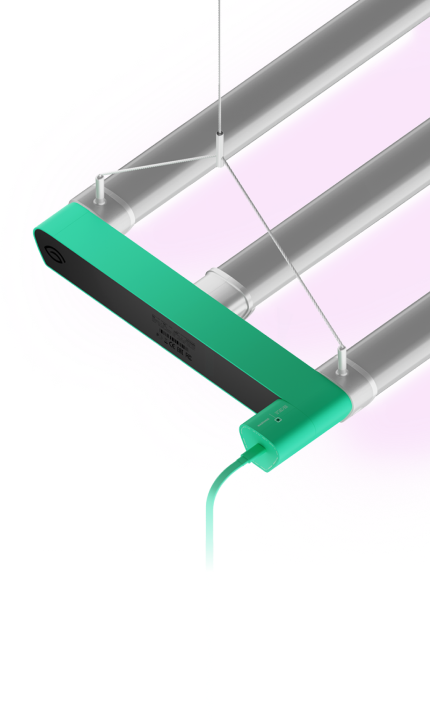
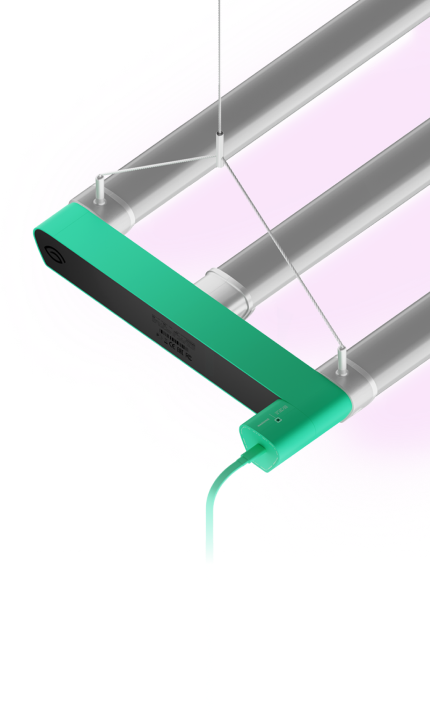
rebuild mounting ignis slider

diff --git a/src/html/pages/ignis.html b/src/html/pages/ignis.html
@@ -981,39 +981,51 @@
                 </li>
             </ul>
         </div>
-        <div
-            id="ignis-mounting-slider"
-            class="preview-mounting__slider swapper">
-            <div class="swiper-wrapper">
-                <div class="swiper-slide slide-item">
-                    <div class="img-wrapper">
-                        <picture>
-                            <source
-                                srcset="
-                                    images/common/ignis/mounting_slide_1_mobile.jpg
-                                "
-                                media="(max-width: 575px)" />
-                            <img
-                                src="images/common/ignis/mounting_slide_1.jpg"
-                                alt="ignis"
-                                class="slide-image" />
-                        </picture>
+        <div class="preview-mounting__wrapper">
+            <div class="preview-mounting__left">
+                <div class="img-wrapper">
+                    <picture>
+                        <img
+                            src="images/common/ignis/mounting/mounting-left.png"
+                            alt="ignis"
+                            class="img-part img-part_left" />
+                    </picture>
+                </div>
+            </div>
+            <div
+                id="ignis-mounting-slider"
+                class="preview-mounting__slider swapper">
+                <div class="swiper-wrapper">
+                    <div class="swiper-slide slide-item">
+                        <div class="img-wrapper">
+                            <picture>
+                                <img
+                                    src="images/common/ignis/mounting/mounting-slide-1.png"
+                                    alt="ignis"
+                                    class="slide-image" />
+                            </picture>
+                        </div>
+                    </div>
+                    <div class="swiper-slide slide-item">
+                        <div class="img-wrapper">
+                            <picture>
+                                <img
+                                    src="images/common/ignis/mounting/mounting-slide-2.png"
+                                    alt="ignis"
+                                    class="slide-image" />
+                            </picture>
+                        </div>
                     </div>
                 </div>
-                <div class="swiper-slide slide-item">
-                    <div class="img-wrapper">
-                        <picture>
-                            <source
-                                srcset="
-                                    images/common/ignis/mounting_slide_2_mobile.jpg
-                                "
-                                media="(max-width: 575px)" />
-                            <img
-                                src="images/common/ignis/mounting_slide_2.jpg"
-                                alt="ignis"
-                                class="slide-image" />
-                        </picture>
-                    </div>
+            </div>
+            <div class="preview-mounting__right">
+                <div class="img-wrapper">
+                    <picture>
+                        <img
+                            src="images/common/ignis/mounting/mounting-right.png"
+                            alt="ignis"
+                            class="img-part img-part_right" />
+                    </picture>
                 </div>
             </div>
         </div>

diff --git a/src/js/common.js b/src/js/common.js
@@ -1,5 +1,11 @@
 // slider
-import Swiper, { Navigation, Pagination, EffectFade, Autoplay } from 'swiper'
+import Swiper, {
+    Navigation,
+    Pagination,
+    EffectFade,
+    Autoplay,
+    EffectCreative,
+} from 'swiper'
 // functions
 import { headerScrollChange } from './_func/_jq/headerScrollChange'
 import { getAppHeight } from './_func/_jq/getAppHeight'
@@ -173,8 +179,19 @@ document.addEventListener('DOMContentLoaded', () => {
             },
             allowTouchMove: false,
             speed: 800,
+
             slidesPerView: 1,
-            spaceBetween: 20,
+            spaceBetween: 0,
+
+            breakpoints: {
+                // when window width is >= 320px
+                320: {
+                    autoHeight: true,
+                },
+                1580: {
+                    autoHeight: false,
+                },
+            },
         })
 
         $('.preview-spectra__content .nav-link').click(function () {
@@ -185,13 +202,21 @@ document.addEventListener('DOMContentLoaded', () => {
         })
 
         var ignismountingSlider = new Swiper('#ignis-mounting-slider', {
-            modules: [EffectFade, Autoplay],
+            modules: [EffectCreative, Autoplay],
             lazy: true,
-            effect: 'fade',
+            effect: 'creative',
             allowTouchMove: false,
-            speed: 800,
+            speed: 300,
             slidesPerView: 1,
             spaceBetween: 0,
+            creativeEffect: {
+                prev: {
+                    rotate: [180, 0, 0],
+                },
+                next: {
+                    rotate: [-180, 0, 0],
+                },
+            },
             autoplay: {
                 delay: 6000,
                 disableOnInteraction: false,
@@ -200,6 +225,9 @@ document.addEventListener('DOMContentLoaded', () => {
                 init: function () {
                     this.slideTo(1)
                     this.autoplay.stop()
+                    $('.preview-mounting__wrapper').removeClass(
+                        'preview-mounting__wrapper_hang'
+                    )
                 },
             },
         })
@@ -209,6 +237,9 @@ document.addEventListener('DOMContentLoaded', () => {
             const index = ignismountingSlider.activeIndex
             const arr = [...$('.preview-mounting__content .nav-link')]
             arr[index].classList.add('active')
+            $('.preview-mounting__wrapper').toggleClass(
+                'preview-mounting__wrapper_hang'
+            )
         })
 
         if ($('.preview-mounting').length > 0) {
@@ -220,6 +251,9 @@ document.addEventListener('DOMContentLoaded', () => {
 
                 if (wt <= et + eh && wt >= et) {
                     ignismountingSlider.slideTo(0)
+                    $('.preview-mounting__wrapper').addClass(
+                        'preview-mounting__wrapper_hang'
+                    )
                     ignismountingSlider.autoplay.start()
                 } else {
                     ignismountingSlider.autoplay.stop()
@@ -689,6 +723,7 @@ document.addEventListener('DOMContentLoaded', () => {
 
     var previewHowSlider = new Swiper('#preview-how-slider', {
         modules: [Navigation, Pagination, EffectFade],
+        loop: true,
         lazy: true,
         effect: 'fade',
         speed: 800,

diff --git a/src/css/styles.sass b/src/css/styles.sass
@@ -241,8 +241,7 @@
           align-items: flex-end
           justify-content: center
           flex-direction: row
-          @media (max-width: 575px)
-            width: 100%
+          width: 100%
 .terra-main
   background-color: $gray-color
   .container
@@ -1506,9 +1505,11 @@
       display: flex
       gap: 20px
       @media (max-width: 1580px)
-        flex-direction: column
+        justify-content: center
         flex-wrap: wrap
         align-items: center
+        flex-direction: row
+        height: auto
   &__left,
   &__right
     position: relative
@@ -1653,11 +1654,87 @@
           &.active
             background-color: #fff
             border-radius: 20px
-    .slide-image
-      width: 100%
-      height: 100%
-      object-fit: cover
     
+  &__wrapper
+    width: 100%
+    height: 560px
+
+    display: flex
+    justify-content: center
+    gap: 200px
+    overflow: hidden
+
+    @media (max-width: 1024px)
+      gap: 100px
+      height: 470px
+
+    @media (max-width: 830px)
+      height: 370px
+      gap: 50px
+    
+    @media (max-width: 530px)
+      height: 240px
+
+    @media (max-width: 375px)
+      gap: 30px
+
+    &_hang
+      .preview-mounting
+        &__left,
+        &__right
+          top: 20%
+
+  &__left,
+  &__right
+    position: relative
+    top: 0
+    height: 100%
+    display: flex
+    justify-content: flex-end
+    margin-left: auto
+    min-width: 655px
+
+    transition: top ease 0.3s 
+
+    .img-wrapper
+      height: 100%
+
+    .img-part
+      height: 30%
+      object-fit: cover
+
+      &_left 
+        height: 100%
+
+      &_right
+        position: relative
+        top: 50%
+        transform: translateY(-50%)
+
+  &__right
+    @media (max-width: 1024px)
+      justify-content: flex-start
+
+
+  &__slider
+    width: 115px
+    height: 100%
+    flex-shrink: 0
+
+    @media (max-width: 1024px)
+      width: 97px
+    @media (max-width: 830px)
+      width: 76px
+    @media (max-width: 530px)
+      width: 50px
+
+    .img-wrapper
+      height: 100%
+      .slide-image
+        height: 100%
+        object-fit: cover
+      
+
 .preview-future
   background-color: $bg-color
   padding-top: 80px

diff --git a/src/css/_components/_header.sass b/src/css/_components/_header.sass
@@ -180,7 +180,6 @@
               flex: 0 0 auto
               opacity: 0
               transform: scale(.5)
-              transition: opacity .3s, transform .3s, color .5s
               font-size: 30px
               line-height: 30px
               margin-right: 5px
@@ -202,31 +201,31 @@
 .icon
   &-ignis
     &__link
-      &:active
+      &:focus
         &:before
           color: #00D791
   &-air
     &__link
-      &:active
+      &:focus
         &:before
           color: #B4DBFF
   &-aqua
     &__link
-      &:active
+      &:focus
         &:before
           color: #1FA4F1
   &-refresh
     &__link
-      &:active
+      &:focus
         &:before
           color: #1FA4F1
   &-profile
     &__link
-      &:active
+      &:focus
         &:before
           color: #FF4D80
   &-notifications
     &__link
-      &:active
+      &:focus
         &:before
           color: #FF4D80

diff --git a/src/css/_fonts/_fonts_list.sass b/src/css/_fonts/_fonts_list.sass
@@ -1,7 +1,7 @@
 @include font-face("Fontello", "fontello", 400, normal)
+@include font-face("WorkSans", "WorkSansBold", 700, normal)
 @include font-face("WorkSans", "WorkSansExtraBold", 800, normal)
 @include font-face("WorkSans", "WorkSansLight", 200, normal)
-@include font-face("WorkSans", "WorkSansBold", 700, normal)
 @include font-face("WorkSans", "WorkSansMedium", 500, normal)
 @include font-face("WorkSans", "WorkSansRegular", 400, normal)
 @include font-face("WorkSans", "WorkSansSemiBold", 600, normal)

diff --git a/src/css/main.sass b/src/css/main.sass
@@ -86,6 +86,8 @@
     bottom: 0
     left: 0
     z-index: 2
+    @media (max-width: 1280px)
+      height: 35%
     @media (max-width: 1023px)
       height: 45%
   .container
